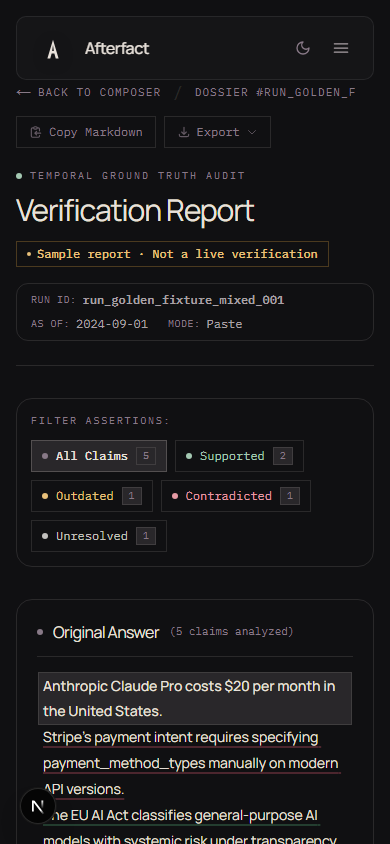
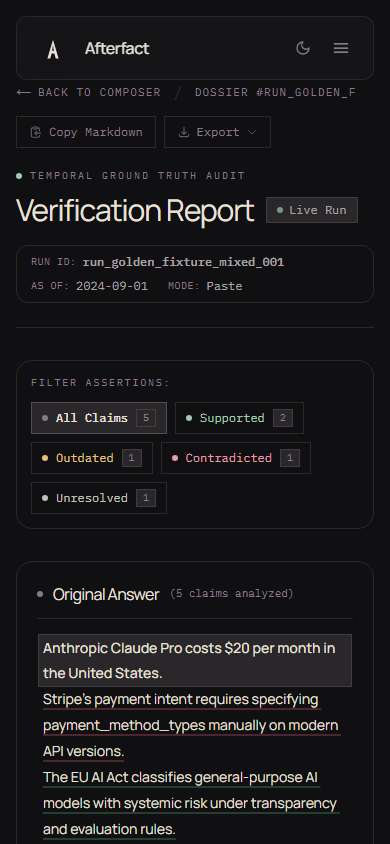
fix(ui): remove sample report badge from mobile dark report screenshot and test specs

diff --git a/tests/e2e/report-viewer.spec.ts b/tests/e2e/report-viewer.spec.ts
@@ -204,10 +204,9 @@ test.describe('C02 Interactive Report Experience (/report/[id])', () => {
     expect(overflowMobile).toBe(false);
 
     await page.evaluate(() => document.querySelector('nextjs-portal')?.remove());
-    await page.screenshot({
-      path: path.join(ARTIFACT_DIR, 'report-mobile-dark.png'),
-      fullPage: false,
-    });
+    const mobileDarkScreenshot = await page.screenshot({ fullPage: false });
+    fs.writeFileSync(path.join(ARTIFACT_DIR, 'report-mobile-dark.png'), mobileDarkScreenshot);
+    fs.writeFileSync(path.join(process.cwd(), 'docs', 'audit-evidence', 'report-demo-mobile-390x844-dark.png'), mobileDarkScreenshot);
 
     // 5. Mobile Light
     const toggleToLightMobile = page.getByRole('button', { name: /switch to light theme/i }).first();
